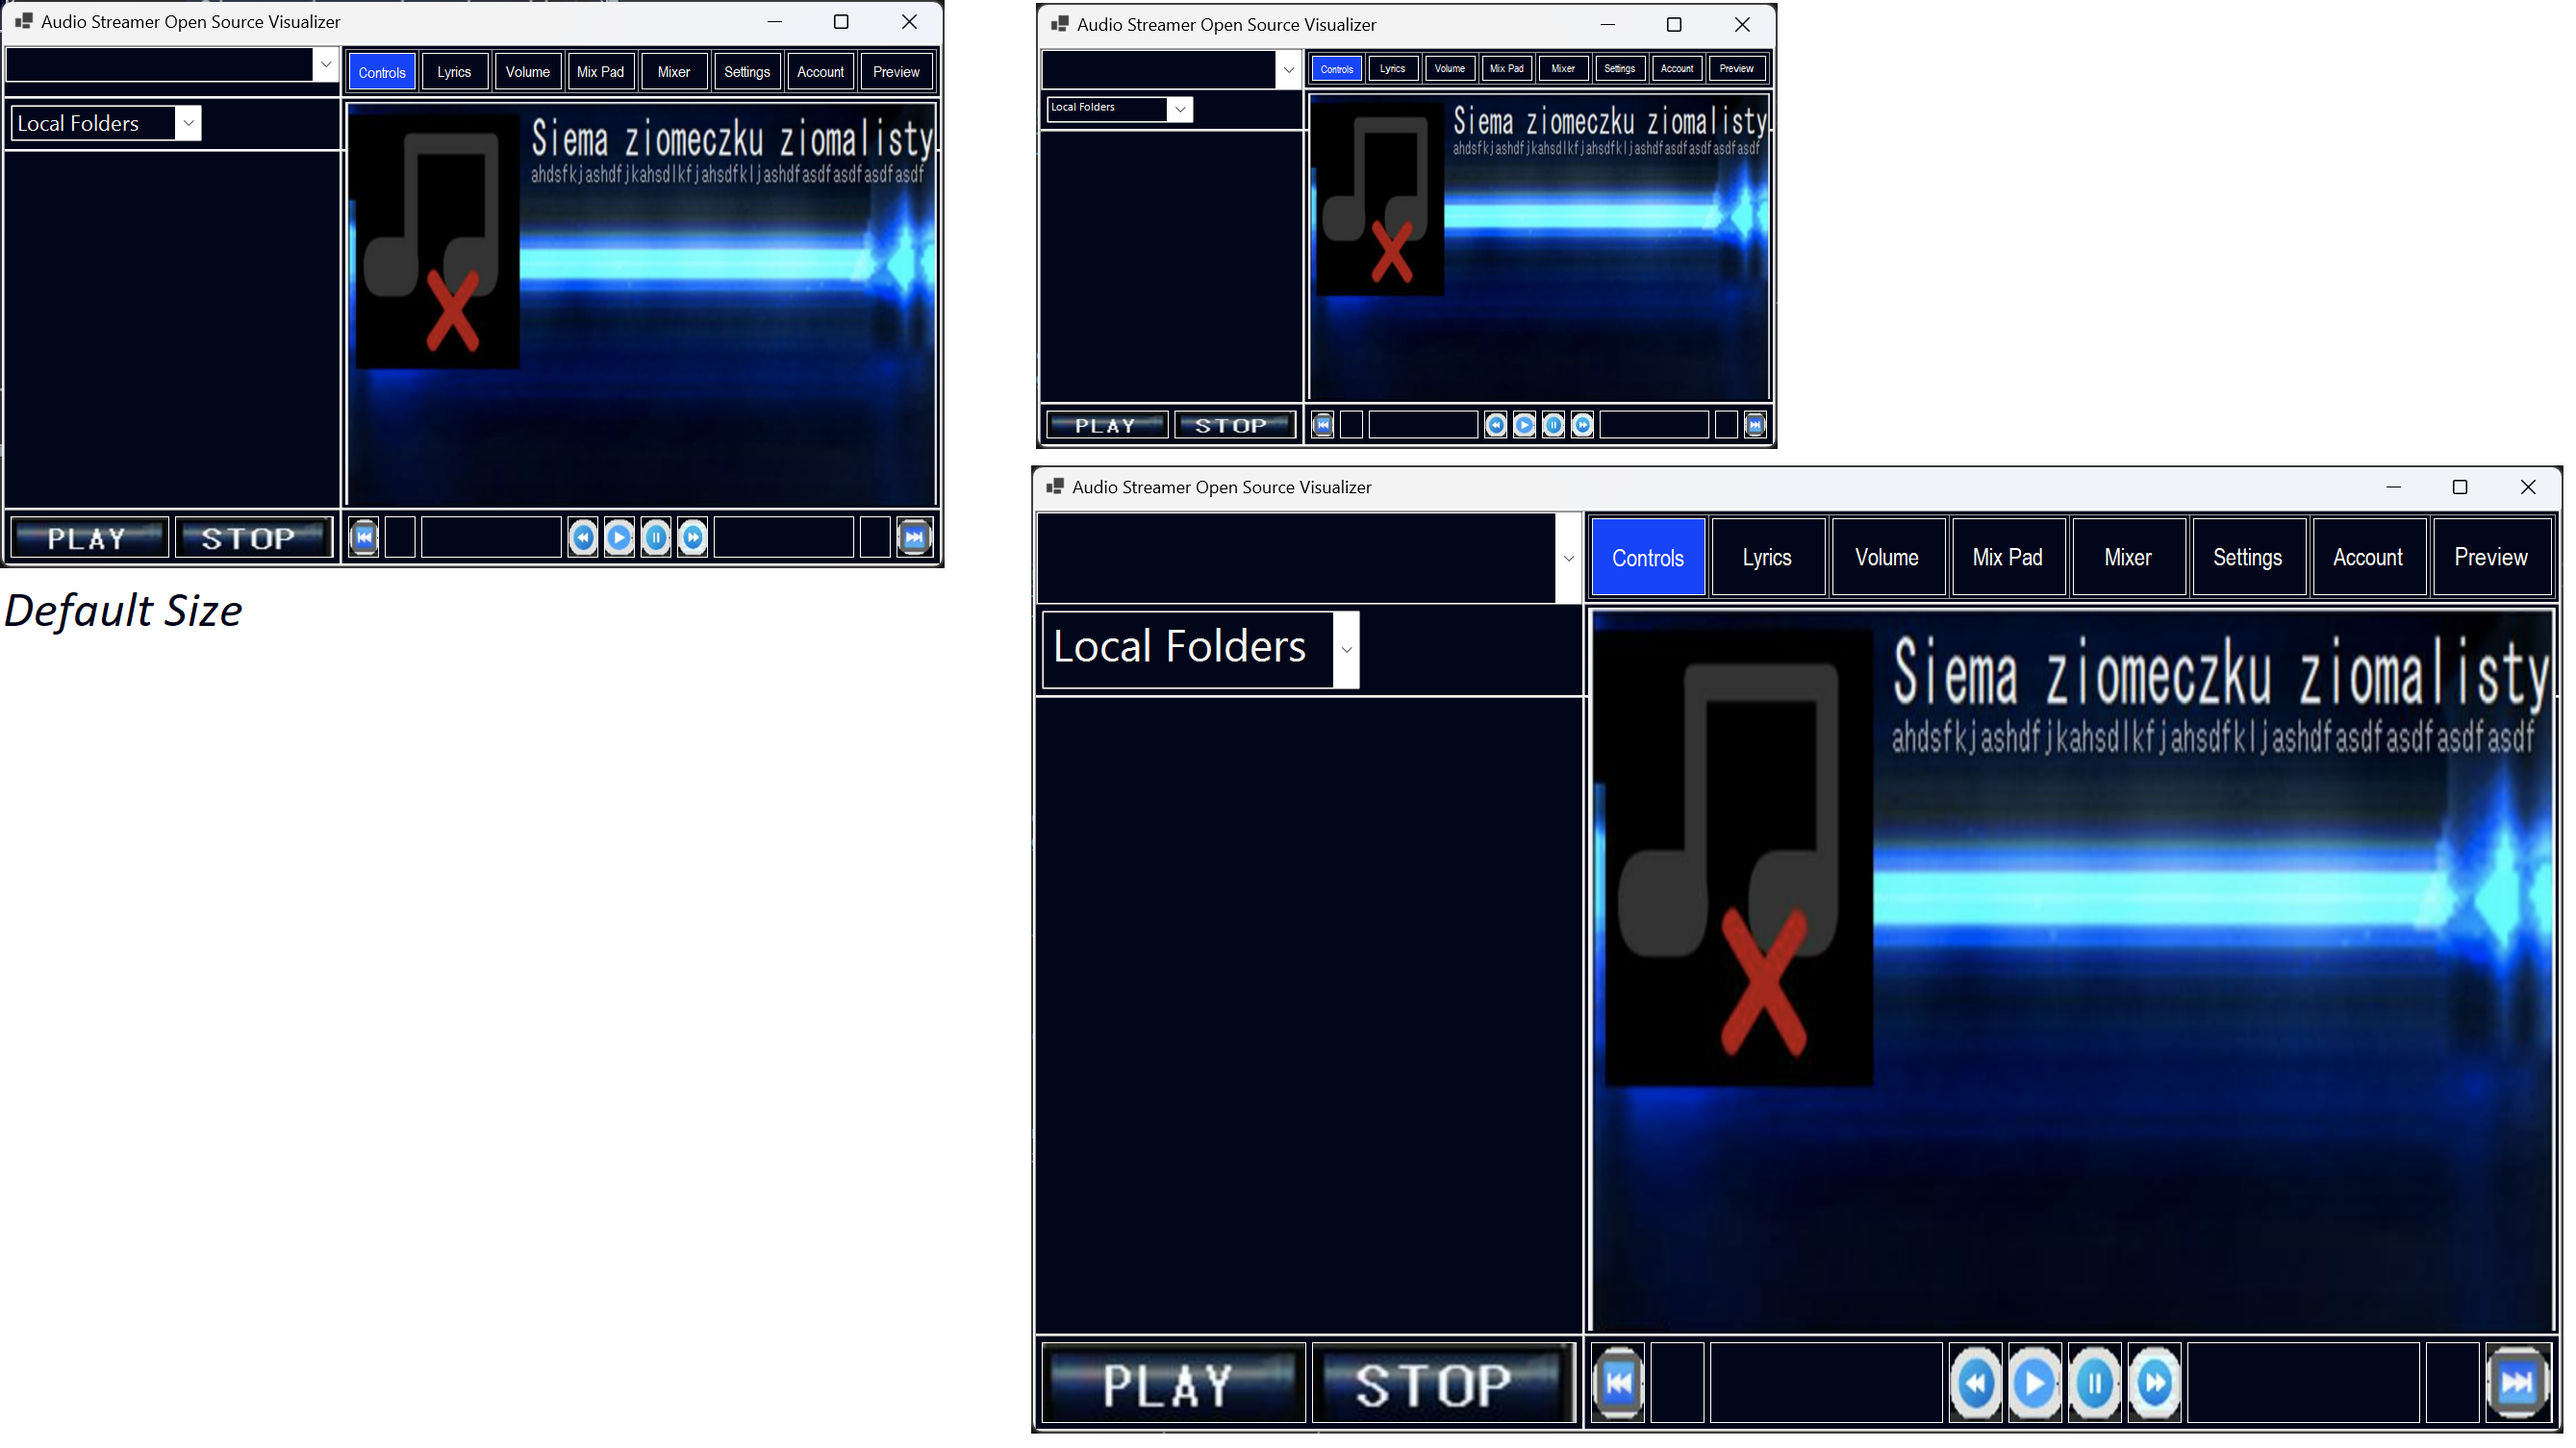
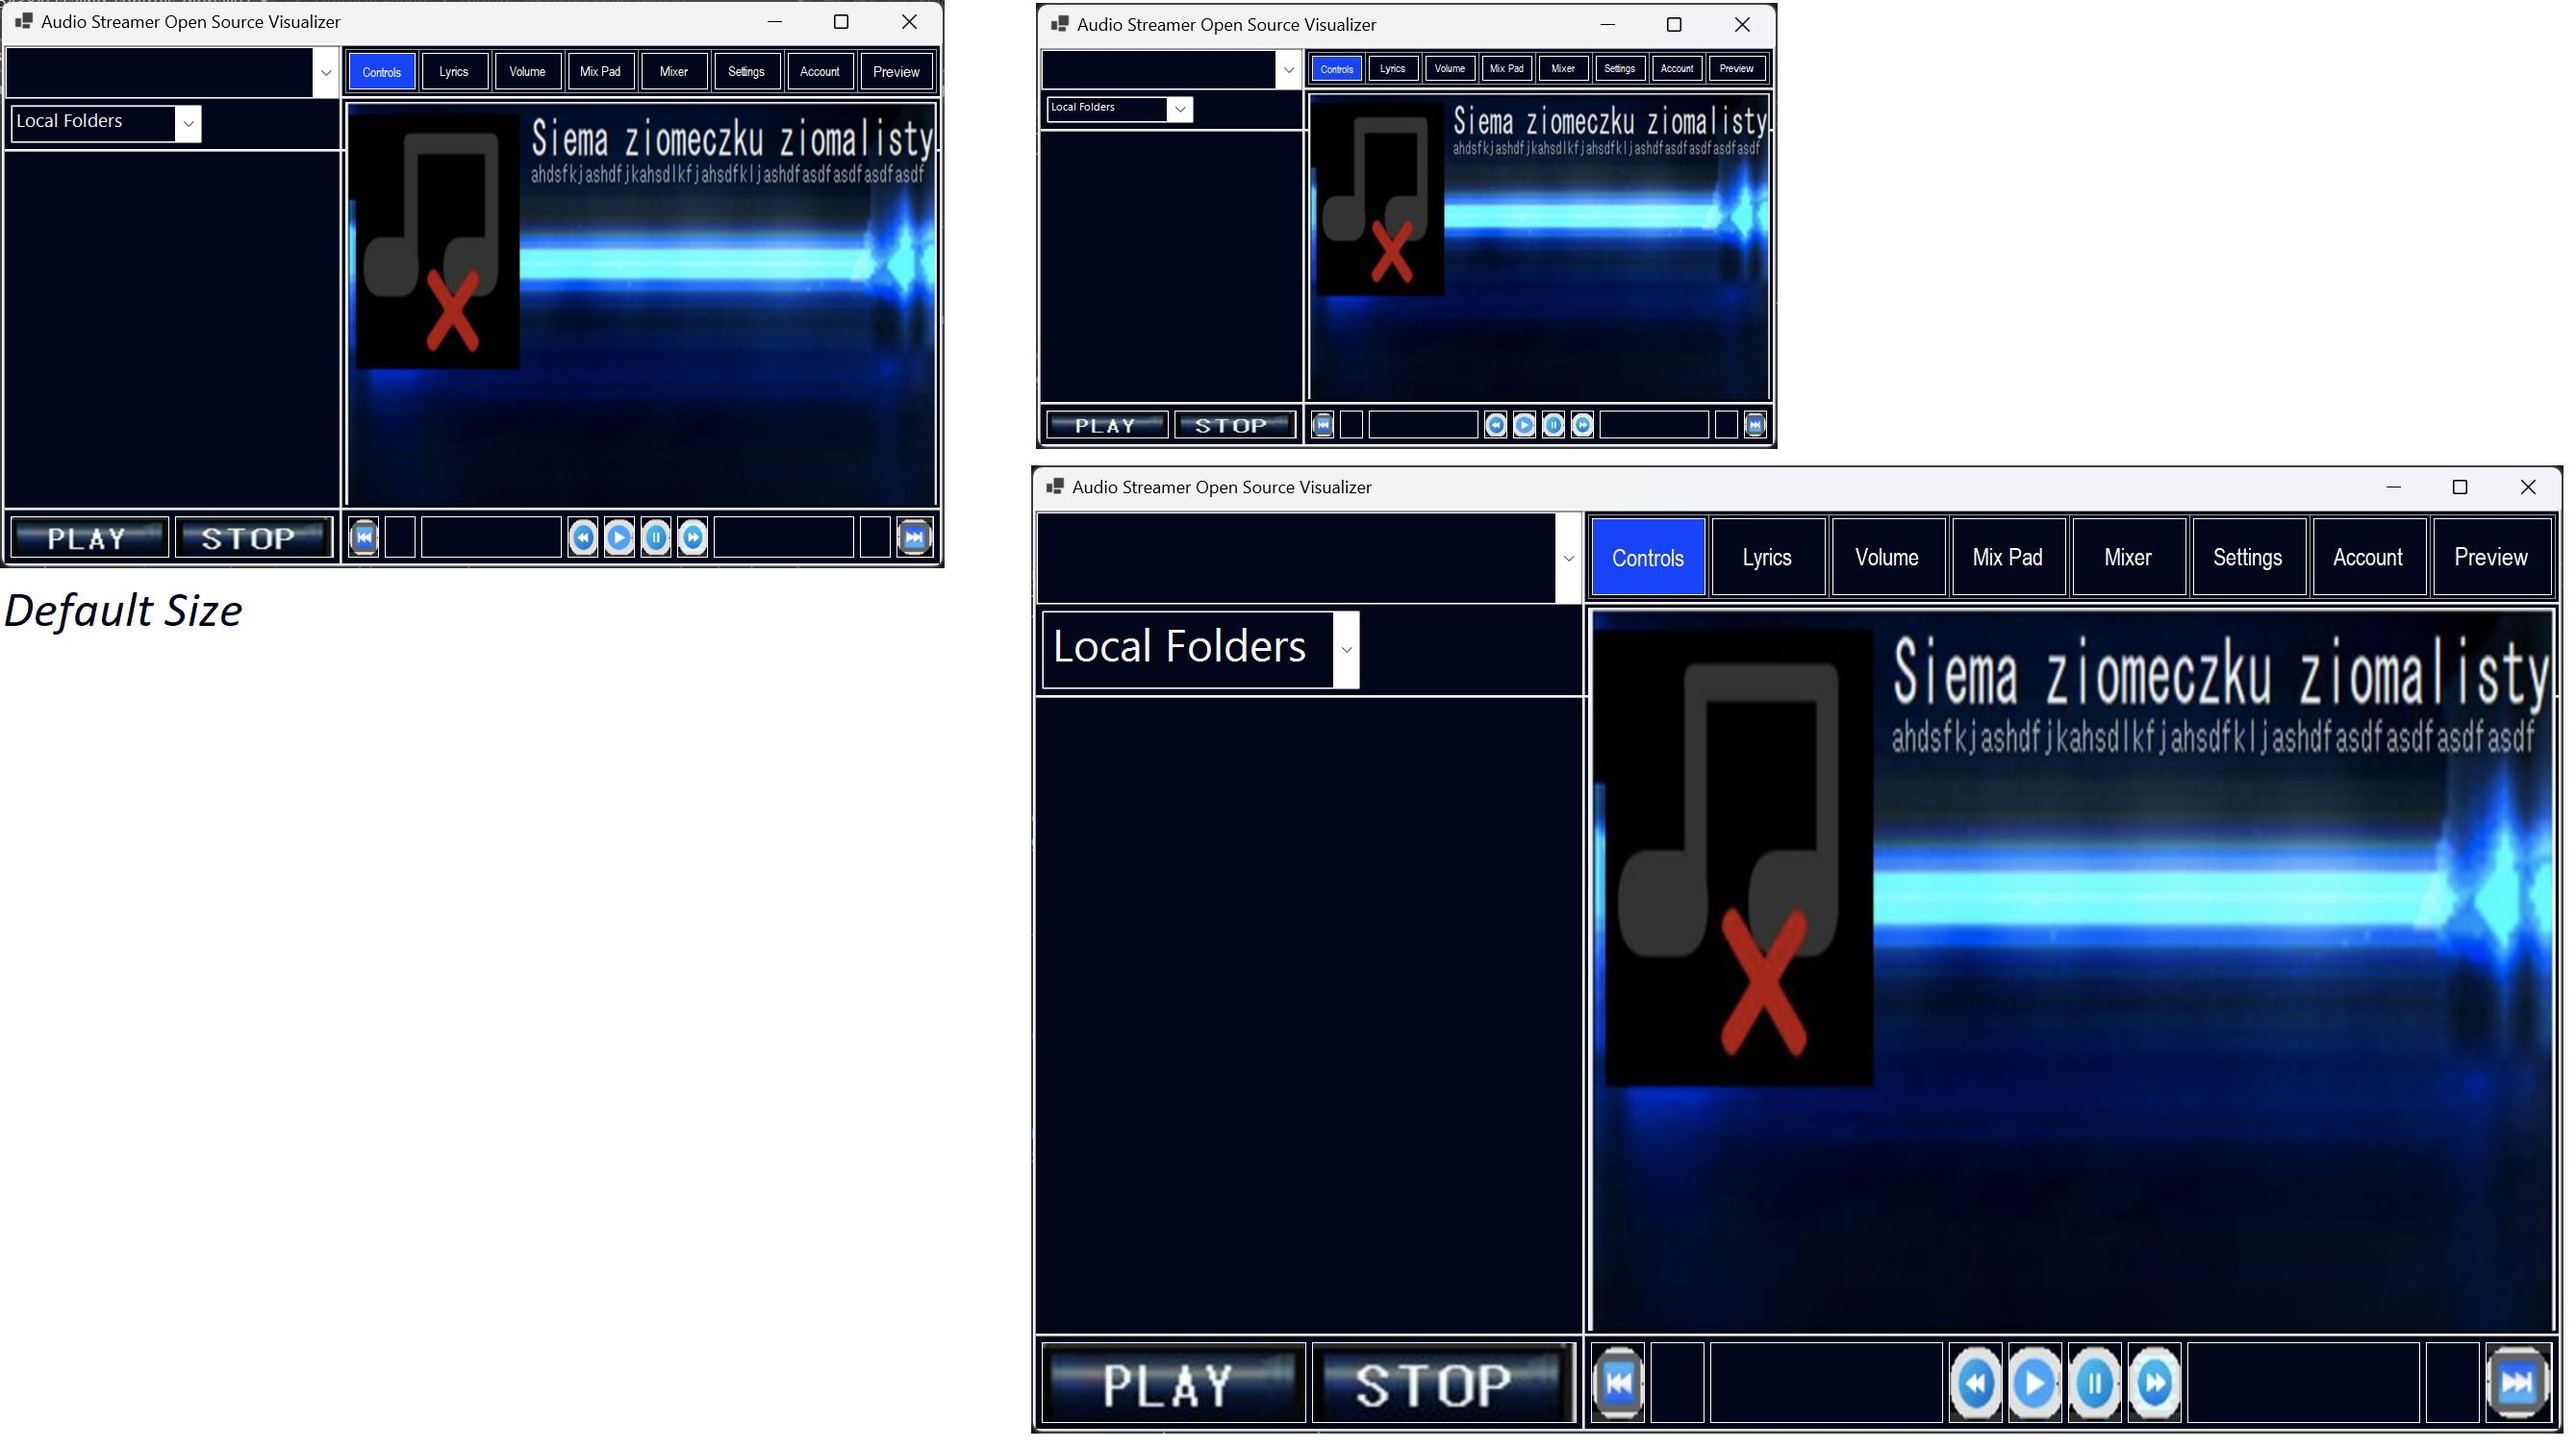
Induced a size change to initialize font resizer.

diff --git a/scaling-controls-globally/MainForm.cs b/scaling-controls-globally/MainForm.cs
@@ -35,6 +35,9 @@ namespace scaling_controls_globally
                     }
                 };
             }
+            // 
+            BeginInvoke(()=> Size = new Size(Width + 1, Height));
+            BeginInvoke(()=> Size = new Size(Width - 1, Height));
         }
 
         WDT _wdtSizeChanged = new WDT { Interval = TimeSpan.FromMilliseconds(100) };

diff --git a/README.md b/README.md
@@ -6,7 +6,7 @@ One way to **scale winforms controls with window size** is to use nested `TableL
 
 Then, place your controls in the cells and anchor them on all four sides. For buttons that have a backgound image set to `BackgroundImageLayout = Stretch` this is all you need to do. However, controls that use text may require a custom means to scale the font. For example, you're using ComboBox controls where size is a function of the font not the other way around.
 
-[![resizing results][2]][2]
+[![resizing performance][2]][2]
 
 ***
 To compensate for this, the above screenshots utilize an extension to do a binary search that changes the font size until a target control height is reached. The basic idea is to respond to `TableLayoutPanel` size changes by setting a watchdog timer, and when the timer expires iterate the control tree to apply the `BinarySearchFontSize` extension. You may want to [clone](https://github.com/IVSoftware/scaling-controls-globally.git) the code I used to test this answer and experiment for yourself to see how the pieces fit together. 
@@ -128,4 +128,4 @@ Something _like_ this would work but you'll probably want to do more testing tha
 
 
   [1]: https://i.stack.imgur.com/Rnktd.png
-  [2]: https://i.stack.imgur.com/USkqU.jpg
+  [2]: https://i.stack.imgur.com/3sAfo.jpg
